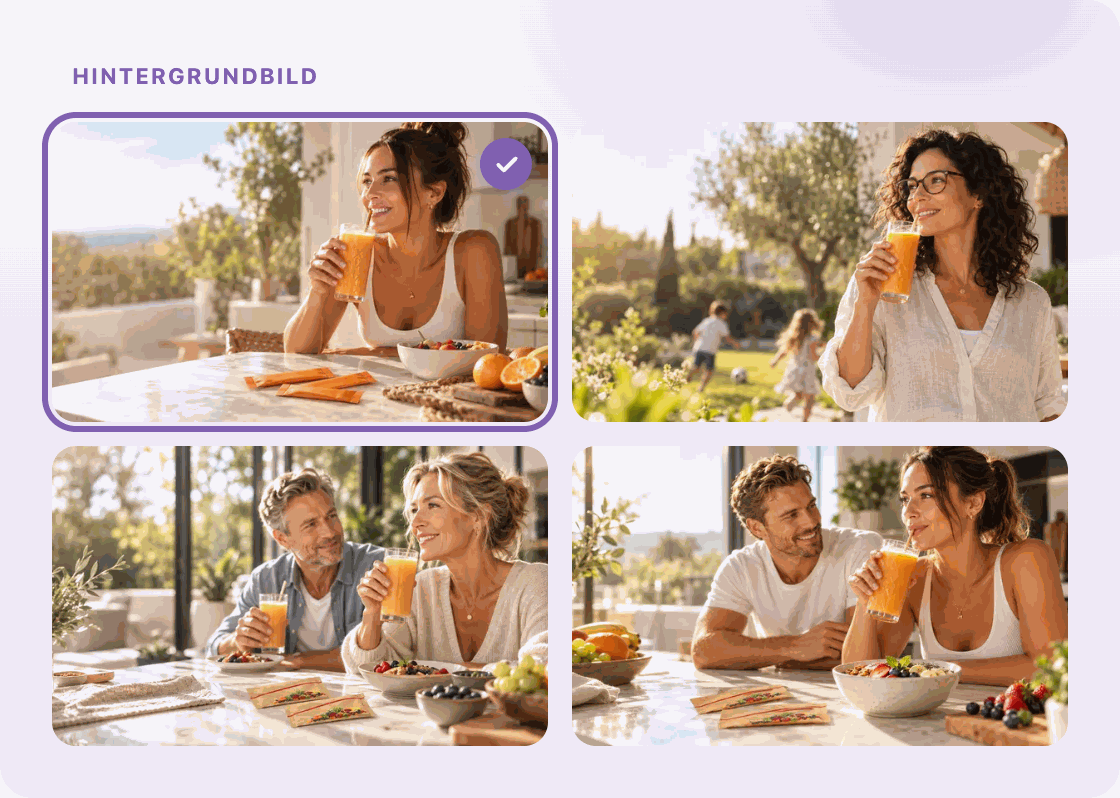
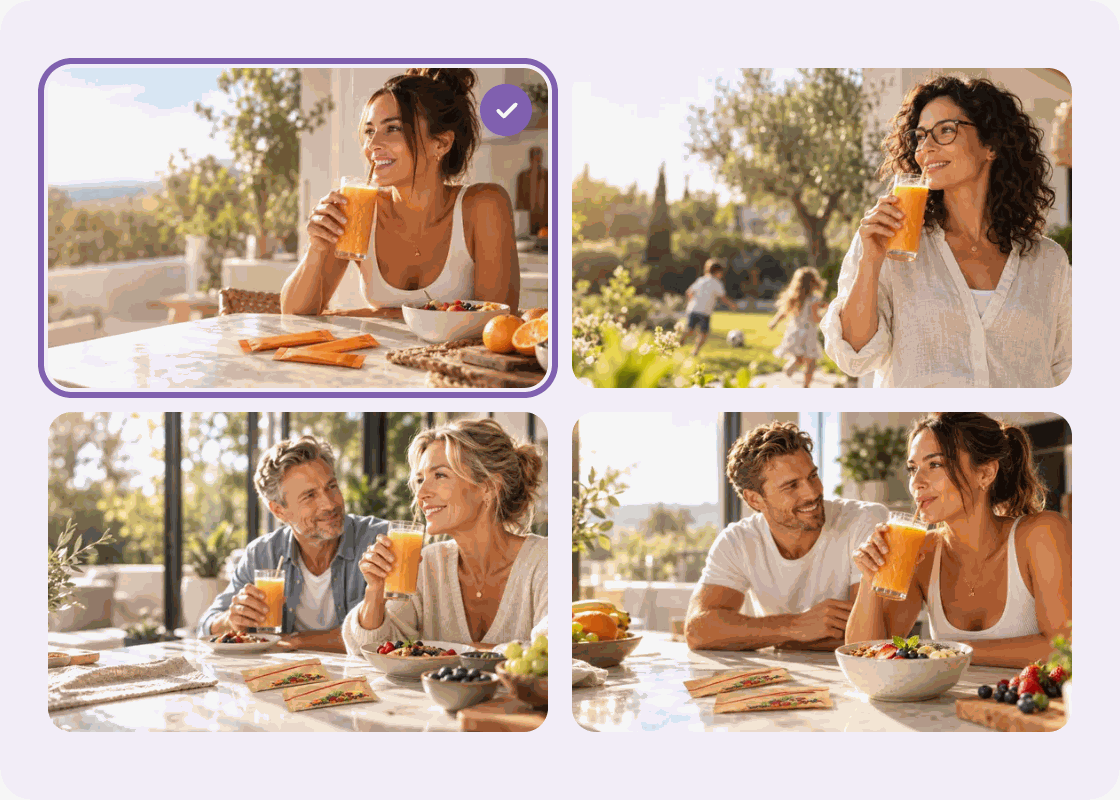
feat(mail): Produkt-Update 15.10. als getrennte Karten (Nummer, Bild, kurzer Text, Fundort), einheitliche Bilder ohne Muster, Farbwähler mit Farbcode, Texte direkter

diff --git a/src/lib/email/templates.ts b/src/lib/email/templates.ts
@@ -30,6 +30,11 @@ function logoHeader(): string {
 export interface PrefsFooter { categoryLabel: string; unsubscribeUrl: string; settingsUrl: string }
 
 function layout(content: string, prefs?: PrefsFooter): string {
+  return layoutCards([content], prefs)
+}
+
+/** Wie layout(), aber jede Karte einzeln (klar getrennte Abschnitte, z. B. Produkt-Updates) */
+function layoutCards(cards: string[], prefs?: PrefsFooter): string {
   const footer = prefs
     ? `<p style="margin:0 0 6px;font-size:12px;color:${base.footer};line-height:1.6;">
               Du bekommst diese Mail, weil du ein FinestSites-Konto hast und „${prefs.categoryLabel}“ erhalten möchtest.
@@ -65,12 +70,12 @@ function layout(content: string, prefs?: PrefsFooter): string {
           </td>
         </tr>
 
-        <!-- Card -->
-        <tr>
-          <td style="background:${base.card};border-radius:20px;padding:40px 40px 36px;border:1px solid ${base.border};">
+        <!-- Cards -->
+        ${cards.map((content, i) => `<tr>
+          <td style="background:${base.card};border-radius:20px;padding:36px 36px 32px;border:1px solid ${base.border};${i > 0 ? 'border-top:0;' : ''}">
             ${content}
           </td>
-        </tr>
+        </tr>${i < cards.length - 1 ? '<tr><td style="height:14px;font-size:0;line-height:0;">&nbsp;</td></tr>' : ''}`).join('')}
 
         <!-- Footer -->
         <tr>
@@ -1048,49 +1053,56 @@ const MAIL_ASSETS = 'https://app.finestsites.io/mail/update-2026-10'
 export const PRODUCT_UPDATE_2026_10_SUBJECT = 'Neu: 8 Sprachen für deine Business-Seite, eigene Farben und neue Hintergrundbilder'
 
 /**
- * Drei Neuigkeiten mit je einem Bild. Bilder liegen in public/mail/update-2026-10 (PNG @2x, 560 px breit).
+ * Jede Neuigkeit ist eine eigene Karte: Nummer + Titel, Bild, zwei kurze Sätze, wo man es findet.
+ * Bilder liegen in public/mail/update-2026-10 (PNG @2x, 560 px breit, alle gleich aufgebaut).
  * Kategorie "updates", der Footer kommt über `prefs` aus sendCategoryMail.
  */
 export function productUpdate202610Email({ firstName, prefs }: { firstName?: string; prefs?: PrefsFooter }): string {
   const name = firstName?.trim() || 'du'
-  const feature = (img: string, alt: string, title: string, text: string, hint: string) => `
-    <table cellpadding="0" cellspacing="0" role="presentation" width="100%" style="margin:28px 0 0;">
-      <tr><td style="border-radius:16px;overflow:hidden;background:#F4F4F5;">
-        <img src="${MAIL_ASSETS}/${img}" alt="${alt}" width="480" style="display:block;width:100%;height:auto;border:0;border-radius:16px;" />
-      </td></tr>
-      <tr><td style="padding:18px 0 0;">
-        <h2 style="margin:0 0 6px;font-size:18px;font-weight:700;color:${base.heading};letter-spacing:-0.01em;">${title}</h2>
-        <p style="margin:0;font-size:15px;color:${base.body};line-height:1.65;">${text}</p>
-        <p style="margin:10px 0 0;font-size:13px;color:${base.muted};line-height:1.6;">${hint}</p>
-      </td></tr>
-    </table>`
+  const card = (n: number, title: string, img: string, alt: string, text: string, where: string) => `
+    <table cellpadding="0" cellspacing="0" role="presentation" width="100%">
+      <tr>
+        <td width="34" valign="top" style="padding:0 12px 0 0;">
+          <div style="width:30px;height:30px;border-radius:50%;background:#8060b0;color:#fff;font-size:14px;font-weight:700;text-align:center;line-height:30px;">${n}</div>
+        </td>
+        <td valign="middle">
+          <h2 style="margin:0;font-size:19px;font-weight:700;color:${base.heading};letter-spacing:-0.01em;line-height:1.3;">${title}</h2>
+        </td>
+      </tr>
+    </table>
+    <img src="${MAIL_ASSETS}/${img}" alt="${alt}" width="488" style="display:block;width:100%;height:auto;border:0;border-radius:16px;margin:18px 0 0;" />
+    <p style="margin:18px 0 0;font-size:15px;color:${base.body};line-height:1.65;">${text}</p>
+    <p style="margin:12px 0 0;font-size:13px;color:${base.muted};line-height:1.6;">
+      <span style="display:inline-block;background:#F3EEF9;color:#6B4FA0;border-radius:999px;padding:4px 10px;font-weight:600;">${where}</span>
+    </p>`
 
-  return layout(`
-    <p style="margin:0 0 10px;font-size:12px;font-weight:700;letter-spacing:0.08em;text-transform:uppercase;color:#8060b0;">Neu bei FinestSites</p>
-    <h1 style="margin:0 0 12px;font-size:26px;font-weight:700;color:${base.heading};letter-spacing:-0.02em;line-height:1.2;">
-      Deine Seite, noch mehr du.
-    </h1>
-    <p style="margin:0;font-size:15px;color:${base.body};line-height:1.65;">
-      Hey ${name}, drei Neuigkeiten, die deine Seite persönlicher machen. Alles ist schon drin, du musst nichts dazubuchen.
-    </p>
-    ${feature('sprachen.png', 'Business-Seite in 8 Sprachen',
-      'Deine Business-Seite spricht jetzt 8 Sprachen',
-      'Deutsch, Englisch, Italienisch, Russisch, Ukrainisch, Polnisch, Bulgarisch und Hindi. Die Seite erkennt die Sprache deines Besuchers automatisch und zeigt alles passend an, auch deinen „Über mich“-Text.',
-      'Du musst nichts tun. Die Übersetzung passiert beim Veröffentlichen von selbst.')}
-    ${feature('farben.png', 'Eigene Farbe wählen',
-      'Deine Farbe, deine Seite',
-      'Pink, Rot, Petrol oder dein ganz eigener Ton: Du suchst deine Farbe aus, und die ganze Seite passt sich an. Buttons, Überschriften, Akzente.',
-      'Im Editor unter „Farbe“. Antippen, ansehen, übernehmen.')}
-    ${feature('hintergruende.png', 'Neue Hintergrundbilder',
-      'Neue Hintergrundbilder für deine Optimalset-Seite',
-      'Vier neue Bilder stehen zur Auswahl, vom Frühstück mit Orangensaft bis zum Sommer im Garten. So sieht deine Seite genau nach dir aus.',
-      'Im Editor unter „Hintergrundbild“. Ein Tipp, und das Bild ist drauf.')}
-    ${button(`${APP_URL}/sites`, 'Zu meinen Seiten')}
-    <p style="margin:32px 0 0;font-size:15px;color:${base.body};line-height:1.65;">
-      Wenn du Fragen hast, schreib mir einfach. Ich lese alles persönlich.
-    </p>
-    <p style="margin:16px 0 0;font-size:15px;color:${base.body};line-height:1.65;">
-      Viele Grüße<br /><strong style="color:${base.heading};">Daniel von FinestSites</strong>
-    </p>
-  `, prefs)
+  return layoutCards([
+    `<p style="margin:0 0 10px;font-size:12px;font-weight:700;letter-spacing:0.08em;text-transform:uppercase;color:#8060b0;">Neu bei FinestSites</p>
+     <h1 style="margin:0 0 12px;font-size:26px;font-weight:700;color:${base.heading};letter-spacing:-0.02em;line-height:1.2;">
+       Deine Seite, noch mehr du.
+     </h1>
+     <p style="margin:0;font-size:15px;color:${base.body};line-height:1.65;">
+       Hey ${name}, drei neue Sachen für deine Seite. Alles ist schon drin, du musst nichts dazubuchen.
+     </p>`,
+    card(1, 'Deine Business-Seite kann jetzt 8 Sprachen', 'sprachen.png', 'Business-Seite in 8 Sprachen',
+      'Deutsch, Englisch, Italienisch, Russisch, Ukrainisch, Polnisch, Bulgarisch und Hindi. Deine Seite merkt, welche Sprache dein Besucher spricht, und zeigt alles passend an. Auch deinen Über-mich-Text.',
+      'Läuft automatisch, du musst nichts machen'),
+    card(2, 'Deine Farbe, ganz genau', 'farben.png', 'Eigene Farbe mit Farbwähler und Farbcode',
+      'Keine Vorauswahl, sondern wirklich deine Farbe: Du stellst sie im Farbwähler exakt ein oder tippst deinen Farbcode ein, z.\u202fB. #D9468B. Buttons, Überschriften, Akzente, alles übernimmt sie.',
+      'Im Editor unter „Farbe“'),
+    card(3, 'Neue Hintergrundbilder für deine Optimalset-Seite', 'hintergruende.png', 'Neue Hintergrundbilder',
+      'Vier neue Bilder, vom Frühstück mit Orangensaft bis zum Sommer im Garten. Antippen, übernehmen, fertig.',
+      'Im Editor unter „Hintergrundbild“'),
+    `<h2 style="margin:0 0 8px;font-size:19px;font-weight:700;color:${base.heading};letter-spacing:-0.01em;">Probier es gleich aus</h2>
+     <p style="margin:0;font-size:15px;color:${base.body};line-height:1.65;">
+       Öffne deine Seite im Editor, alles Neue ist schon da.
+     </p>
+     ${button(`${APP_URL}/sites`, 'Zu meinen Seiten')}
+     <p style="margin:28px 0 0;font-size:15px;color:${base.body};line-height:1.65;">
+       Fragen? Schreib mir einfach, ich lese alles selbst.
+     </p>
+     <p style="margin:14px 0 0;font-size:15px;color:${base.body};line-height:1.65;">
+       Viele Grüße<br /><strong style="color:${base.heading};">Daniel von FinestSites</strong>
+     </p>`,
+  ], prefs)
 }
